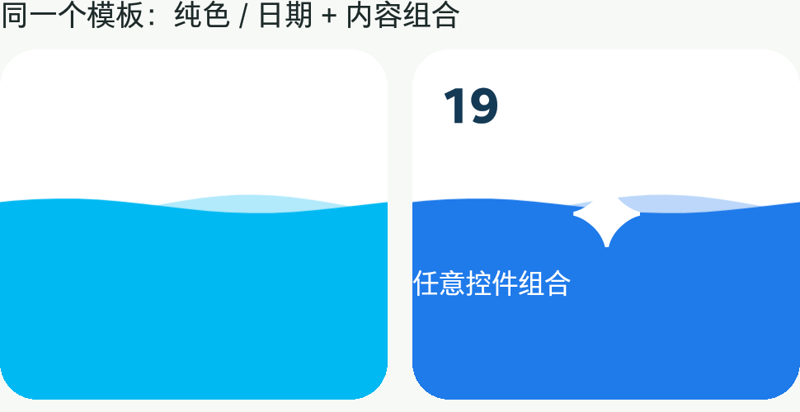
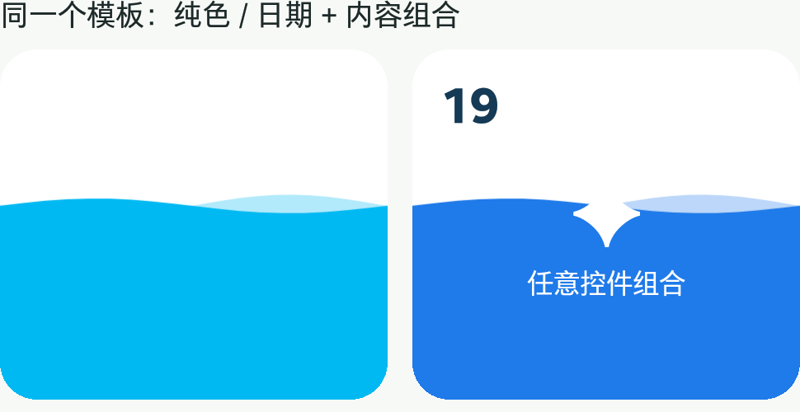
Polish demo controls and refresh library preview

diff --git a/app/src/main/kotlin/com/russell/wavedemo/LibraryDemoActivity.kt b/app/src/main/kotlin/com/russell/wavedemo/LibraryDemoActivity.kt
@@ -102,6 +102,8 @@ class LibraryDemoActivity : Activity() {
             })
         }, LinearLayout.LayoutParams(-1, style.dp(48)))
         root.addView(style.button(if (playing) R.string.pause_waves else R.string.resume_waves, primary = true).apply {
+            minimumHeight = style.dp(48)
+            layoutParams = LinearLayout.LayoutParams(-1, style.dp(48)).apply { topMargin = style.dp(8) }
             setOnClickListener {
                 playing = !playing
                 setText(if (playing) R.string.pause_waves else R.string.resume_waves)
@@ -109,6 +111,8 @@ class LibraryDemoActivity : Activity() {
             }
         })
         root.addView(style.button(R.string.choose_photo, primary = false).apply {
+            minimumHeight = style.dp(48)
+            layoutParams = LinearLayout.LayoutParams(-1, style.dp(48)).apply { topMargin = style.dp(8) }
             setOnClickListener {
                 startActivityForResult(Intent(Intent.ACTION_OPEN_DOCUMENT).apply {
                     type = "image/*"

diff --git a/app/src/main/kotlin/com/russell/wavedemo/MainActivity.kt b/app/src/main/kotlin/com/russell/wavedemo/MainActivity.kt
@@ -66,6 +66,7 @@ class MainActivity : Activity() {
         root.addView(createPlaybackButtons())
         root.addView(createSettings())
         root.addView(style.button(R.string.open_library, primary = false).apply {
+            minimumHeight = style.dp(48)
             setOnClickListener {
                 startActivity(android.content.Intent(this@MainActivity, LibraryDemoActivity::class.java))
             }
